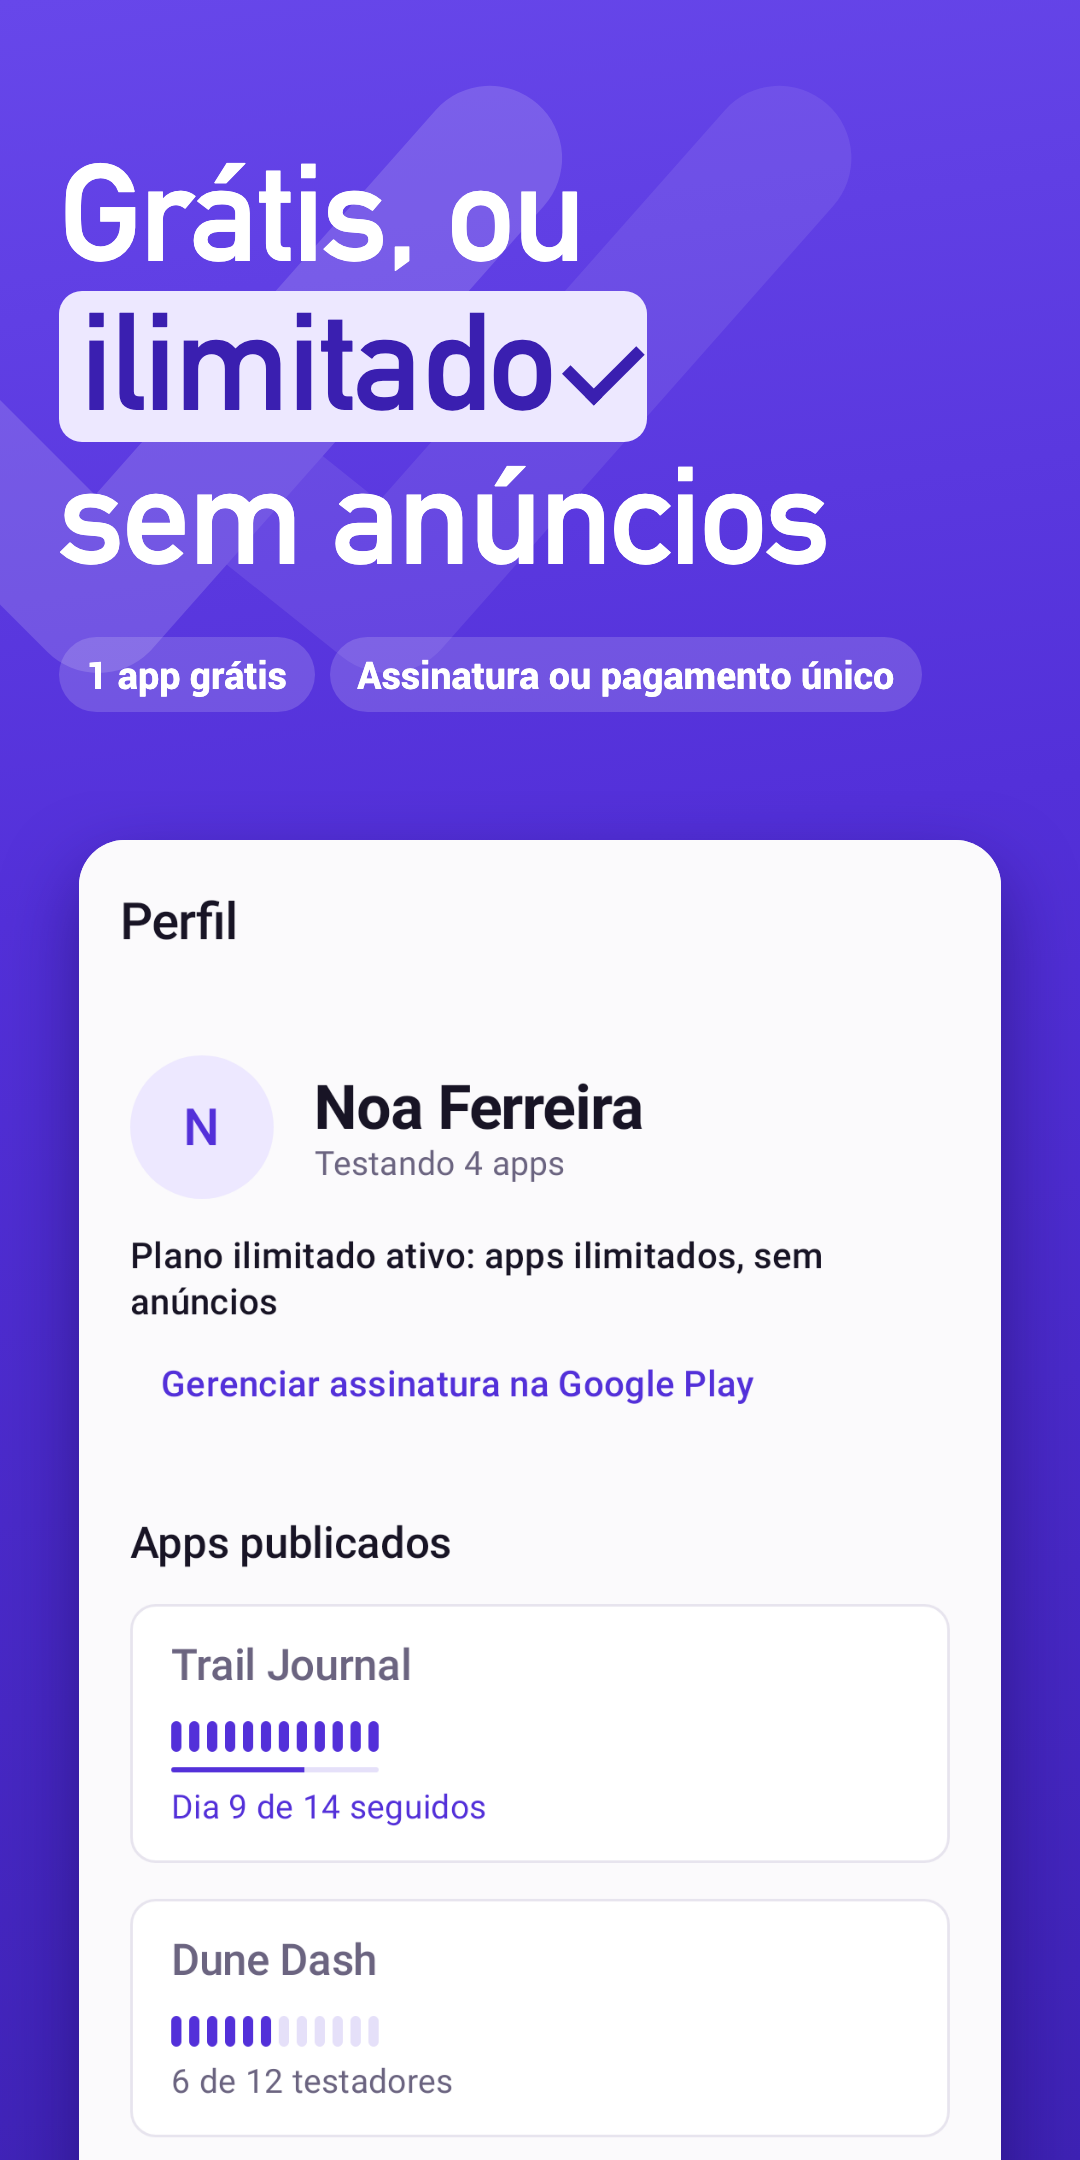
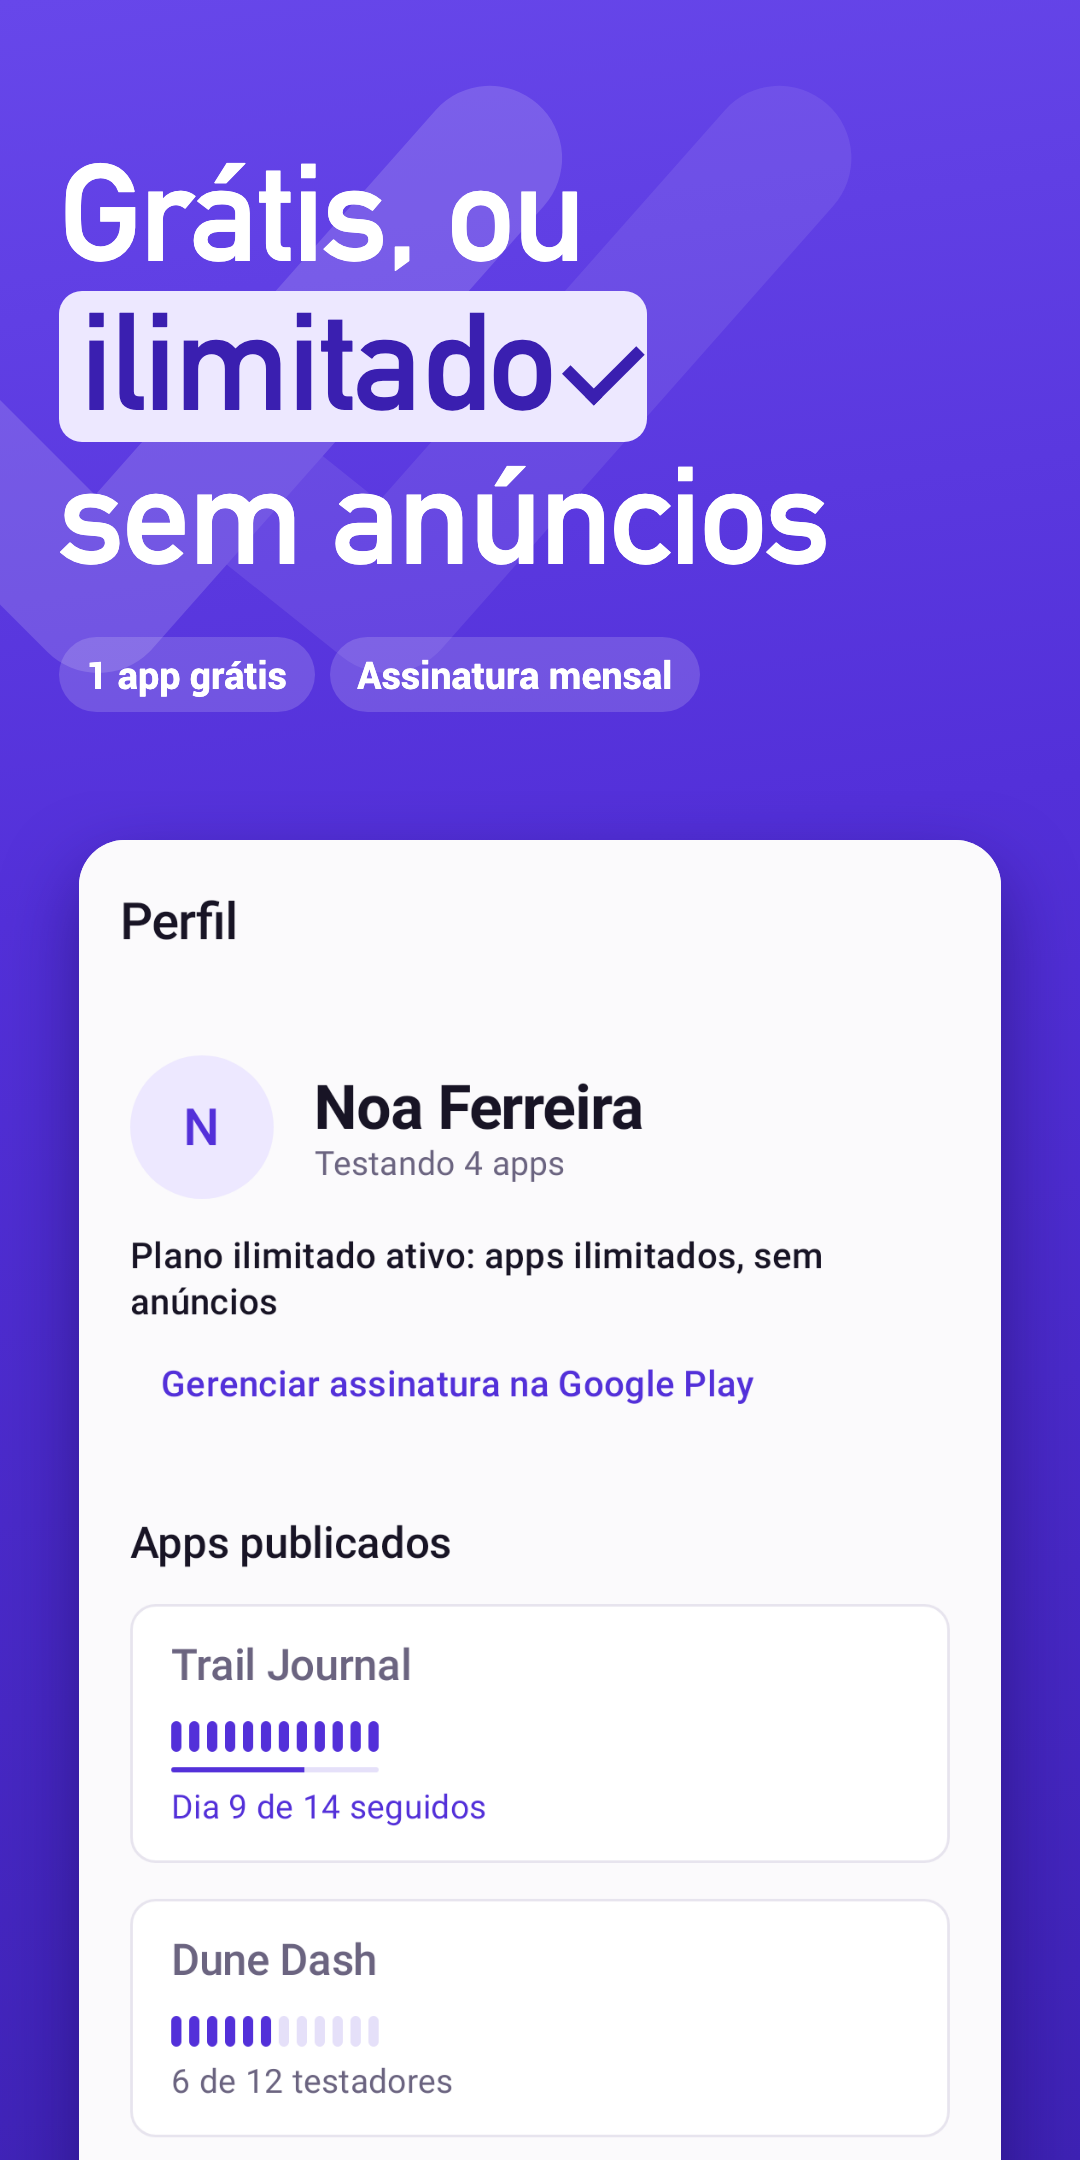
fix: solo suscripcion, sin pago unico (1.9.1)
Decision del usuario: el pago es la suscripcion mensual. El muro de pago
vuelve a ofrecer solo el primer paquete (el mensual) y se van el texto del
pago unico de la app, la ficha, las novedades y la pastilla de la captura 6.
El paquete vitalicio sale tambien de la oferta de RevenueCat.

Changed region(s): [[0.5194, 0.2792, 0.8556, 0.3412]]

diff --git a/shared/src/androidMain/kotlin/com/baltajmn/test4test/Billing.android.kt b/shared/src/androidMain/kotlin/com/baltajmn/test4test/Billing.android.kt
@@ -32,7 +32,6 @@ import org.jetbrains.compose.resources.getString
 import org.jetbrains.compose.resources.stringResource
 import test4test.shared.generated.resources.Res
 import test4test.shared.generated.resources.paywall_no_product
-import test4test.shared.generated.resources.paywall_lifetime_price
 import test4test.shared.generated.resources.paywall_no_purchase
 import test4test.shared.generated.resources.paywall_pending
 import test4test.shared.generated.resources.paywall_preparing
@@ -60,29 +59,29 @@ actual fun PurchaseSection(uid: String, onPurchased: () -> Unit) {
     val context = LocalContext.current
     val activity = LocalActivity.current
     val scope = rememberCoroutineScope()
-    var offers by remember { mutableStateOf<List<Package>>(emptyList()) }
+    var offer by remember { mutableStateOf<Package?>(null) }
     var busy by remember { mutableStateOf(true) }
     var message by remember { mutableStateOf<String?>(null) }
 
     LaunchedEffect(uid) {
         message = runCatching {
             signIn(context, uid)
-            // Todos los paquetes del offering actual, en su orden: la suscripcion
-            // mensual y el pago unico de por vida. Quien solo necesita sus 14 dias
-            // y no quiere suscribirse tiene la segunda puerta.
-            offers = Purchases.sharedInstance.awaitOfferings()
-                .current?.availablePackages.orEmpty()
+            // Primer paquete del offering actual: la suscripcion es el unico
+            // producto que se vende, no hay nada que elegir.
+            offer = Purchases.sharedInstance.awaitOfferings()
+                .current?.availablePackages?.firstOrNull()
         }.fold(
             // getString y no stringResource: esto no es un composable, es una
             // corrutina. Misma tabla de traducciones, misma clave.
-            onSuccess = { if (offers.isEmpty()) getString(Res.string.paywall_no_product) else null },
+            onSuccess = { if (offer == null) getString(Res.string.paywall_no_product) else null },
             onFailure = { getString(Res.string.paywall_price_error, it.message.orEmpty()) },
         )
         busy = false
     }
 
-    for (pack in offers) Button(
+    Button(
         onClick = {
+            val pack = offer ?: return@Button
             val host = activity ?: return@Button
             busy = true
             message = null
@@ -98,19 +97,15 @@ actual fun PurchaseSection(uid: String, onPurchased: () -> Unit) {
                 busy = false
             }
         },
-        enabled = !busy && activity != null,
+        enabled = !busy && offer != null && activity != null,
         modifier = Modifier.fillMaxWidth(),
     ) {
-        val product = pack.product
-        val price = product.price.formatted
+        val product = offer?.product
+        val price = product?.price?.formatted
         Text(
-            // Sin periodo es el pago unico: "suscribirse" ahi seria mentir.
-            if (product.period == null) stringResource(Res.string.paywall_lifetime_price, price)
+            if (price == null) stringResource(Res.string.paywall_subscribe)
             else stringResource(Res.string.paywall_subscribe_price, pricePerPeriod(price, product.period))
         )
-    }
-    if (offers.isEmpty()) Button(onClick = {}, enabled = false, modifier = Modifier.fillMaxWidth()) {
-        Text(stringResource(Res.string.paywall_subscribe))
     }
 
     // Reinstalar en otro movil no genera evento nuevo en RevenueCat, asi que sin
